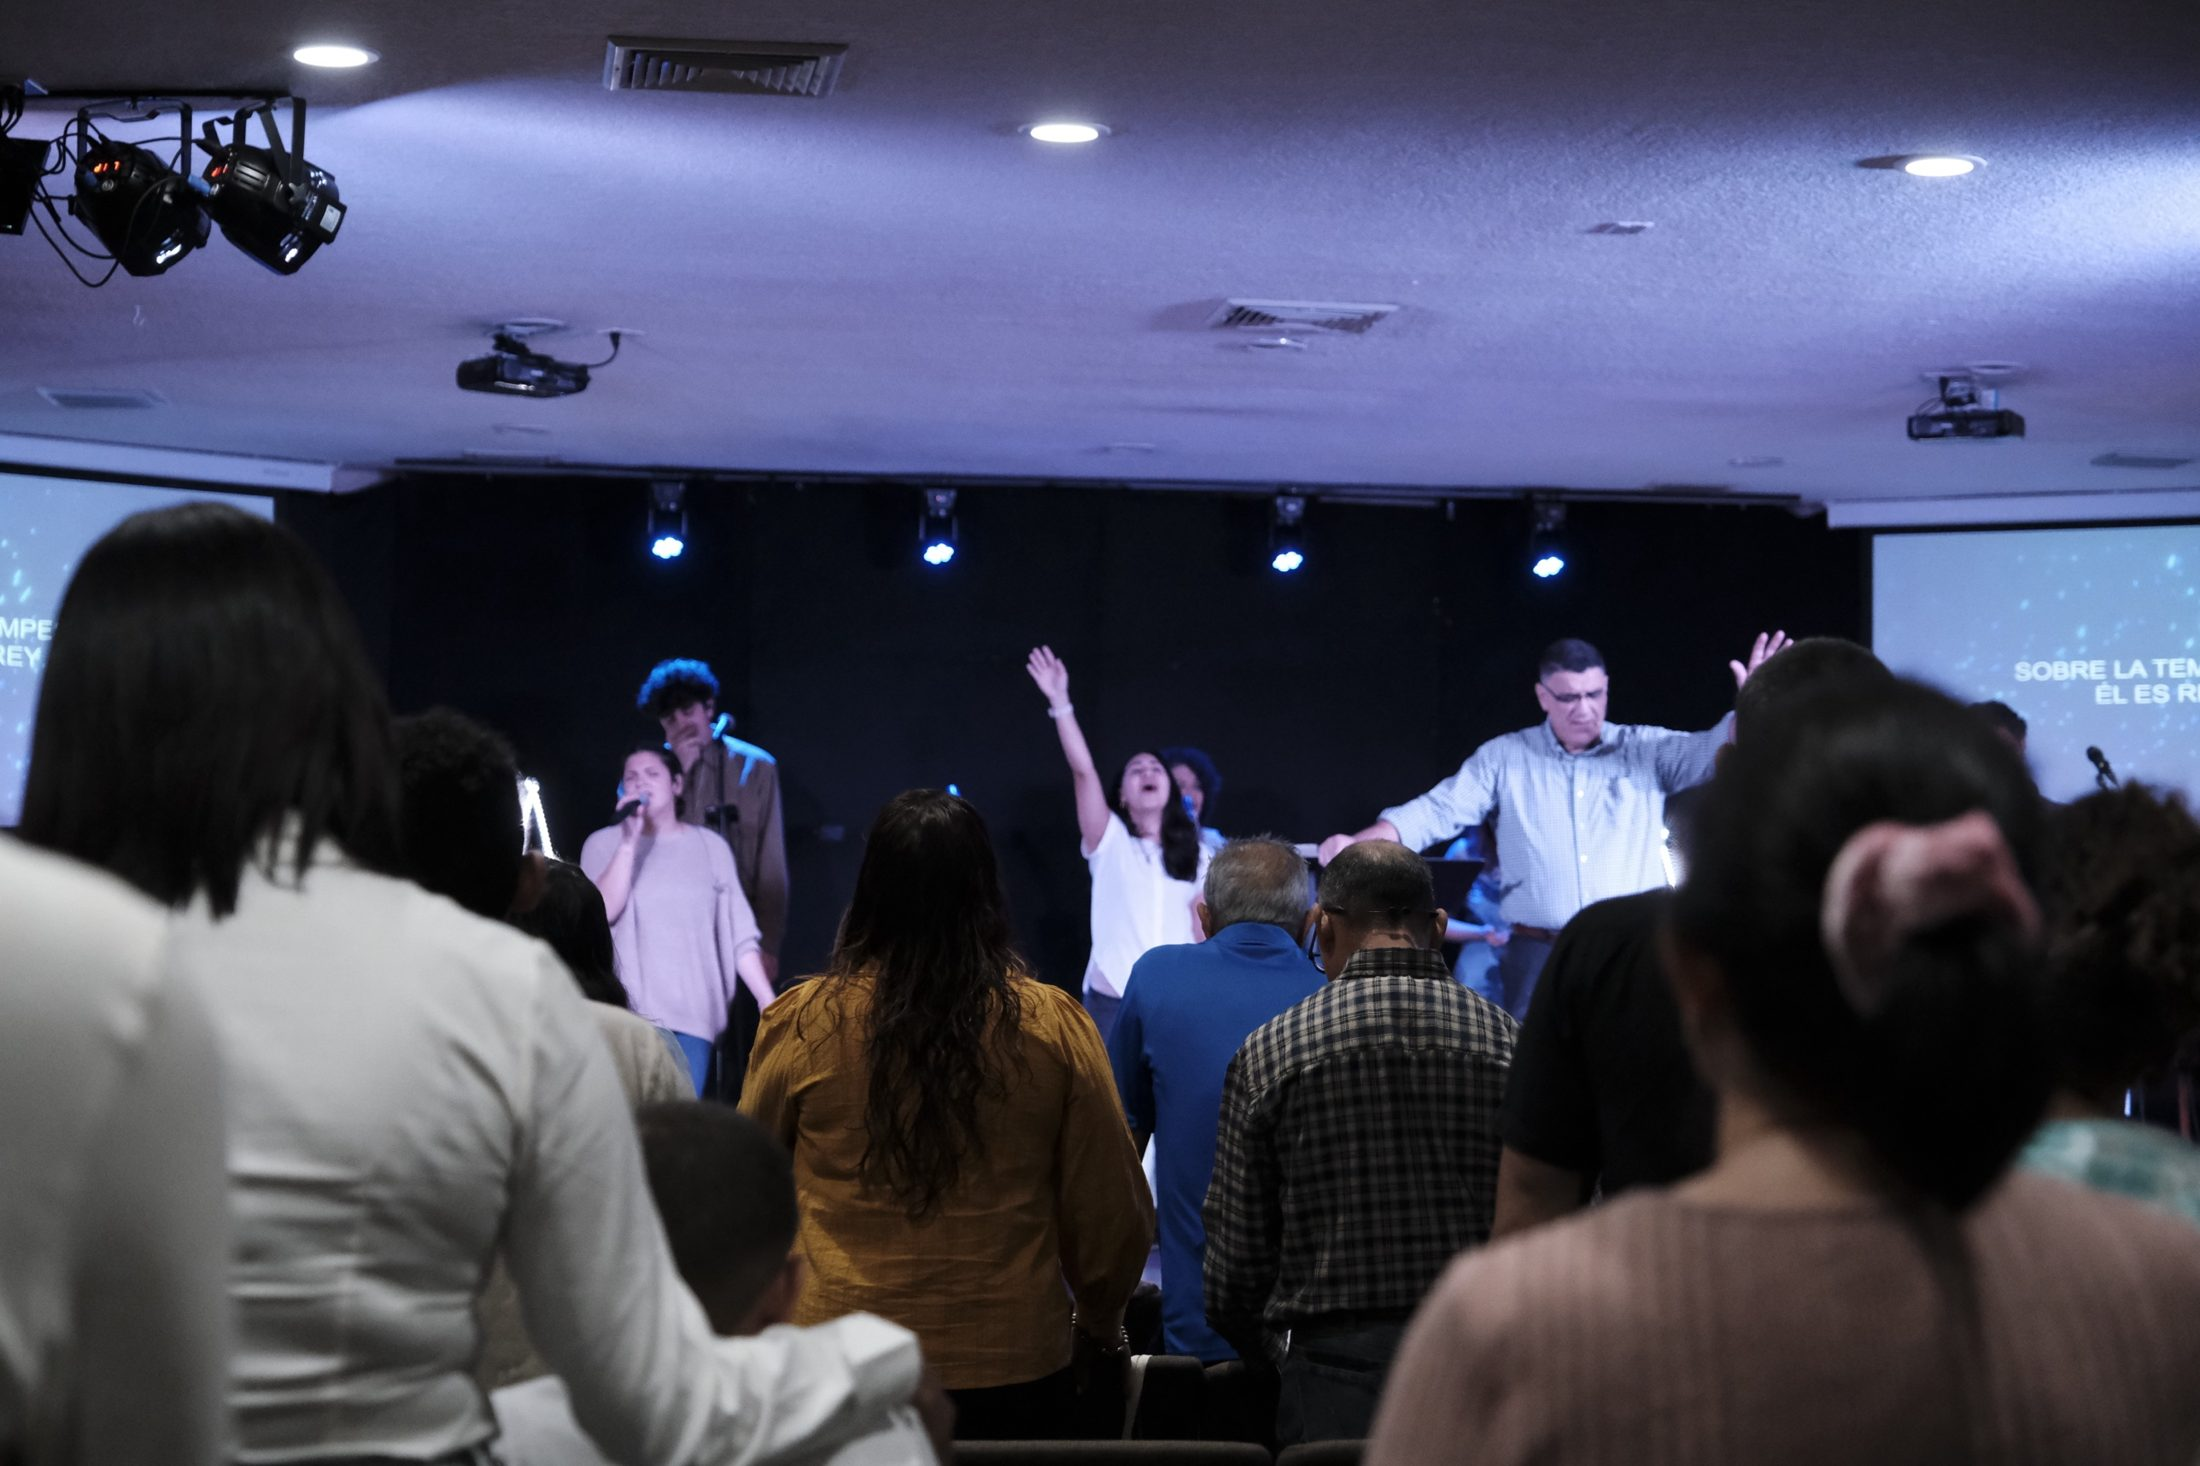
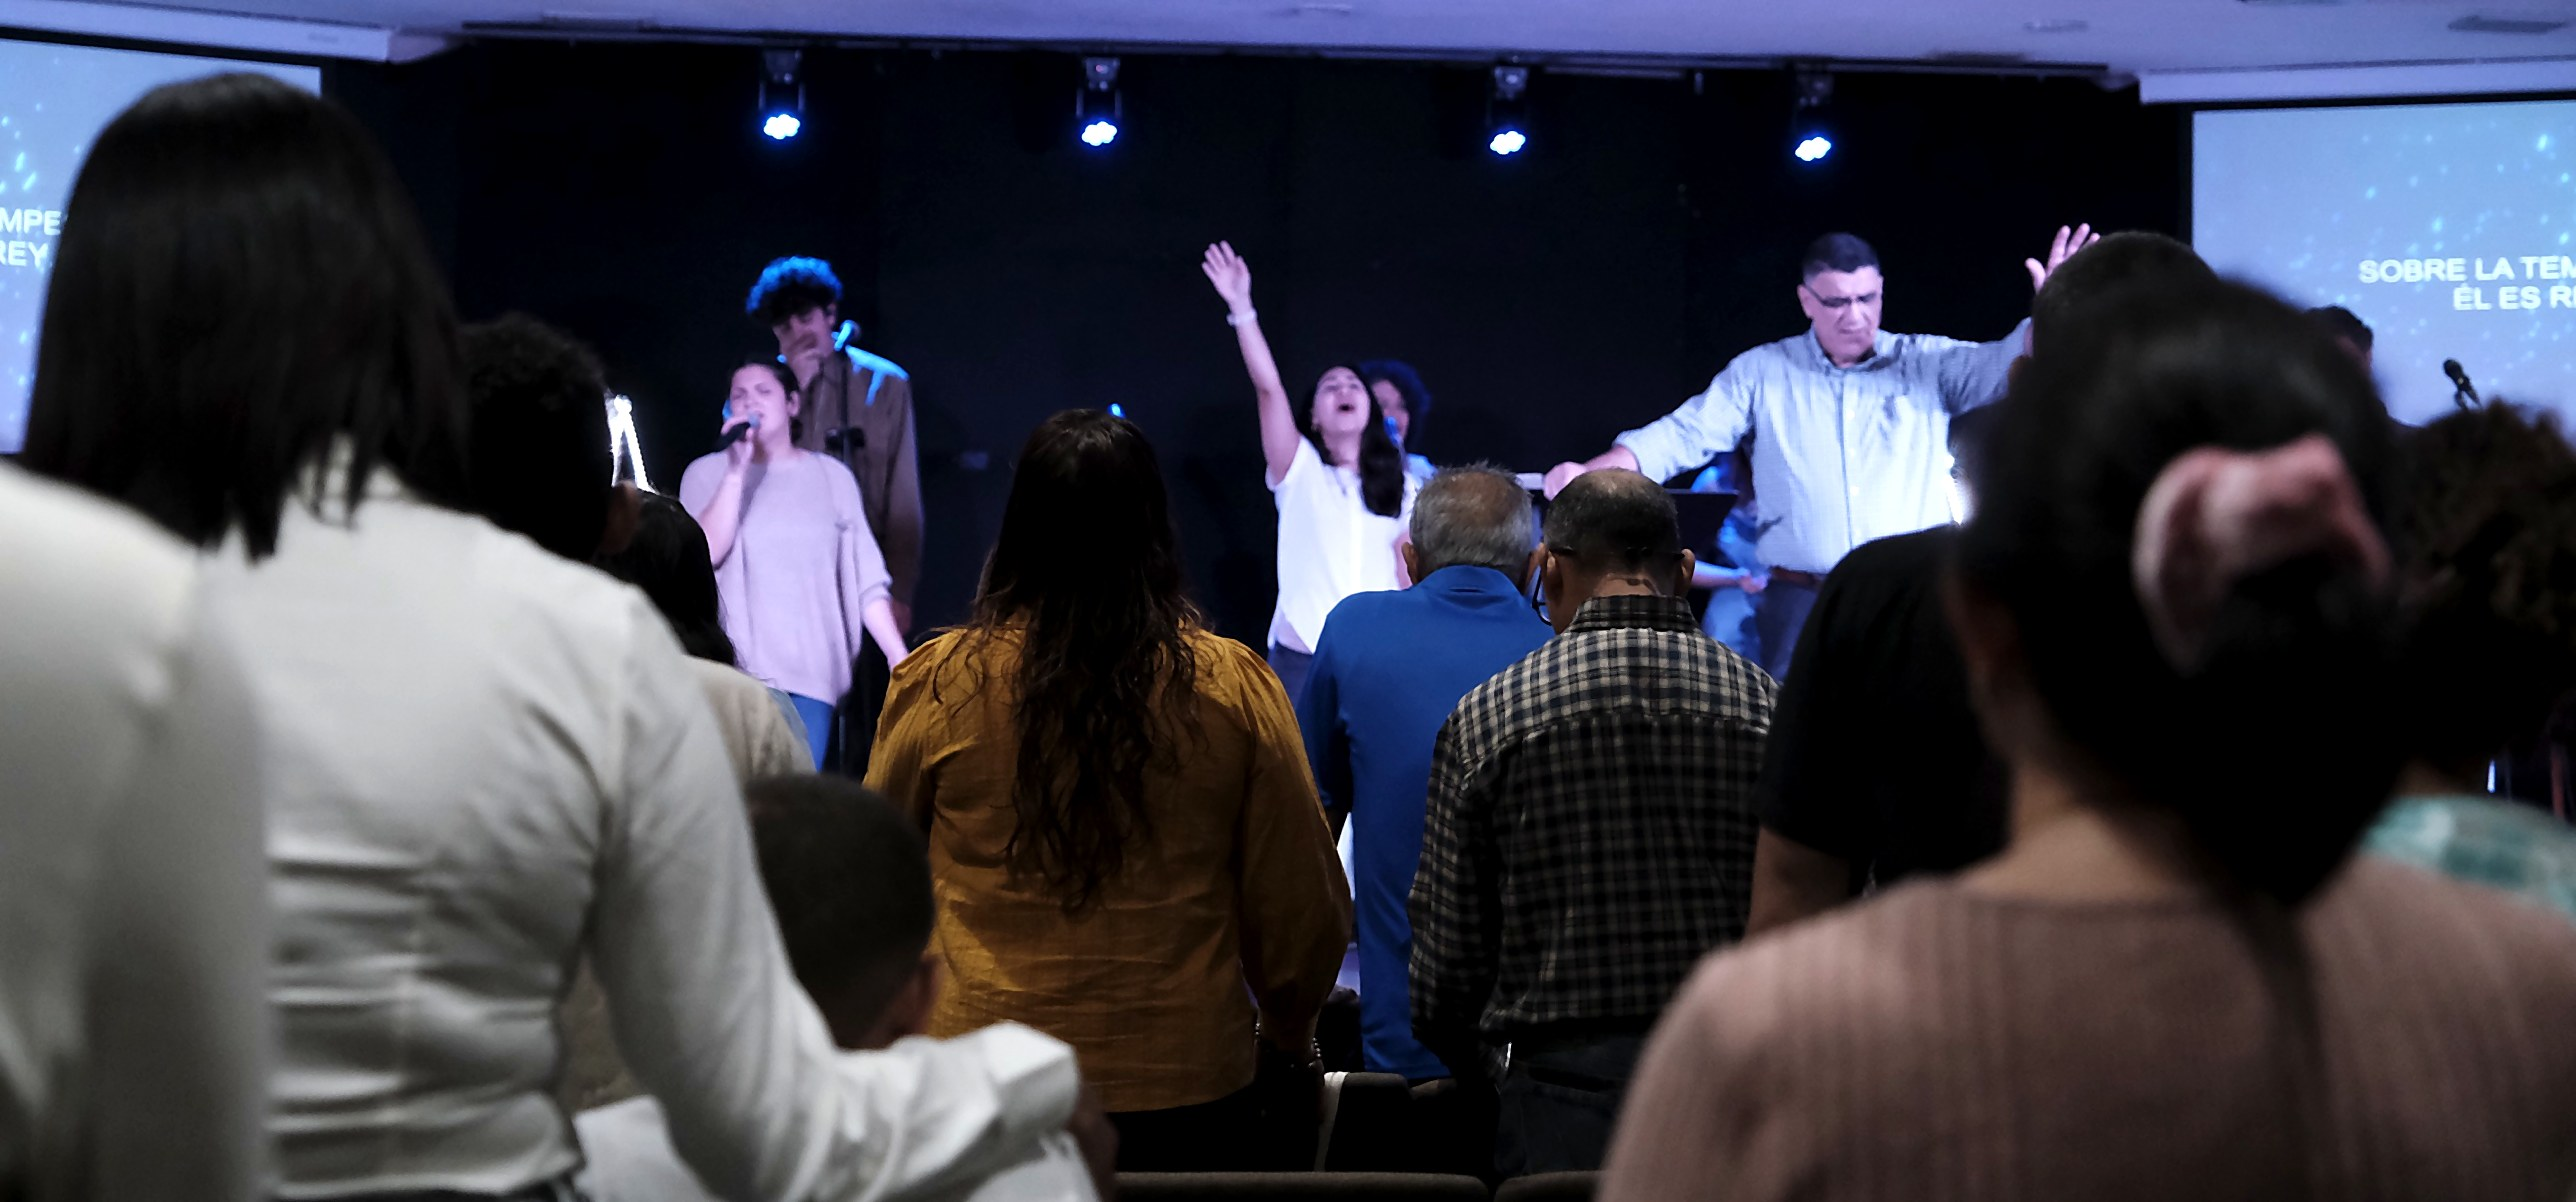
Crop ceiling from hero photo and clean it up
Claude-Session: https://claude.ai/code/session_013DWDFkicJSXqw914GdRB5c

diff --git a/index.html b/index.html
@@ -414,7 +414,7 @@ footer .legal { font-size: .85rem; color: var(--faint); }
 <section class="hero" id="inicio">
   <div class="wrap hero-wrap">
     <div class="hero-frame">
-      <img src="images/congregacion-adorando.jpg" style="object-position: 62% 60%" alt="Hermanos abrazados orando juntos en Casa Portadores de Gloria" fetchpriority="high">
+      <img src="images/congregacion-adorando.jpg" style="object-position: 60% 35%" alt="Hermanos abrazados orando juntos en Casa Portadores de Gloria" fetchpriority="high">
       <div class="hero-inner">
         <div class="hero-copy">
           <p class="eyebrow">Casa Portadores de Gloria · Orlando</p>

diff --git a/src/build.py b/src/build.py
@@ -290,7 +290,7 @@ PAGE_LABELS = {
     "oracion.html": "Oración", "visitanos.html": "Visítanos", "membresia.html": "Membresía",
 }
 PHOTOS = {f: {} for f in PAGE_LABELS}
-PHOTOS["index.html"][1] = ("congregacion-adorando.jpg", "62% 60%")
+PHOTOS["index.html"][1] = ("congregacion-adorando.jpg", "60% 35%")
 PHOTOS["index.html"][3] = ("cruz-verde.jpg", "center 35%")
 SLOTS = {}
 
